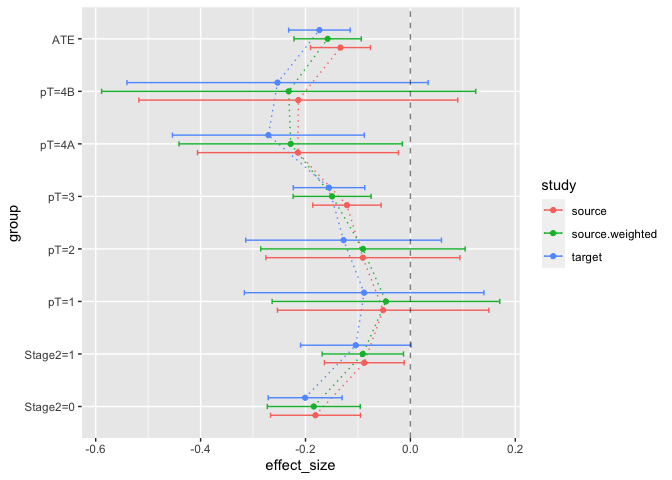
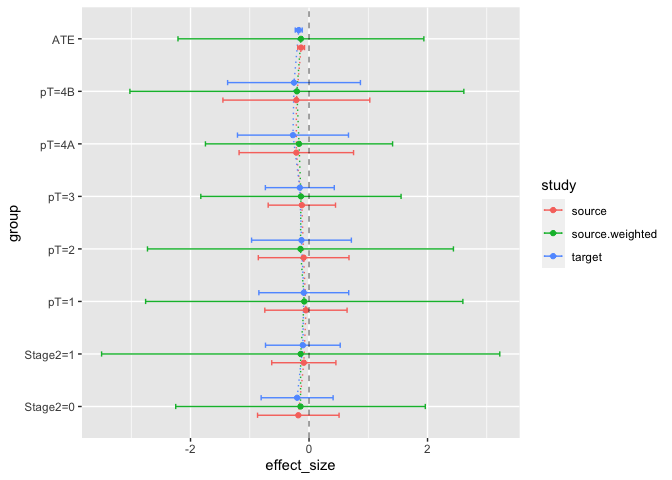
update

diff --git a/README.md b/README.md
@@ -19,9 +19,9 @@ variable, and univariate distribution).
 
 The package use R6 Object-oriented programming system. Below is the
 class diagram defined in the package:
-![schematic](man/figures/README-schematic.png) The package new two
-objects of superclass Estimator for source study and target study,
-respectively, then
+![schematic](man/figures/README-UML.png) The package new two objects of
+superclass Estimator for source study and target study, respectively,
+then
 
 1.  each object estimate the treatment effect using G\_computation,
     inverse propensity score weighting, or doubly robust estimator to
@@ -61,11 +61,6 @@ This is a basic example which shows you how to solve a common problem:
 
 ``` r
 library(RCTrep)
-#> 
-#> Attaching package: 'RCTrep'
-#> The following object is masked from 'package:base':
-#> 
-#>     summary
 
 source.data <- RCTrep::source.data
 target.data <- RCTrep::target.data
@@ -78,6 +73,31 @@ output <- RCTREP(source.data=source.data, target.data=target.data,
                  stratification=c("Stage2","pT"))
 #> Loading required package: lattice
 #> Loading required package: ggplot2
+#> Warning in target$prop/source$prop: longer object length is not a multiple
+#> of shorter object length
+
+#> Warning in target$prop/source$prop: longer object length is not a multiple
+#> of shorter object length
+#> Warning in self$data$y1.hat[index] * weight.norm: longer object length is
+#> not a multiple of shorter object length
+#> Warning in self$data$y0.hat[index] * weight.norm: longer object length is
+#> not a multiple of shorter object length
+#> Warning in self$data$se[index] * (weight)^2: longer object length is not a
+#> multiple of shorter object length
+#> Warning in target$prop/source$prop: longer object length is not a multiple
+#> of shorter object length
+
+#> Warning in target$prop/source$prop: longer object length is not a multiple
+#> of shorter object length
+
+#> Warning in target$prop/source$prop: longer object length is not a multiple
+#> of shorter object length
+
+#> Warning in target$prop/source$prop: longer object length is not a multiple
+#> of shorter object length
+
+#> Warning in target$prop/source$prop: longer object length is not a multiple
+#> of shorter object length
 
 summary(source.obj = output$source.obj, target.obj = output$target.obj)
 #> $summary.plot
@@ -87,34 +107,34 @@ summary(source.obj = output$source.obj, target.obj = output$target.obj)
 
     #> 
     #> $est.target
-    #>     name value        cate         se size
-    #> 1 Stage2     0 -0.20070536 0.03557522 1437
-    #> 2 Stage2     1 -0.10410265 0.05320800  563
-    #> 3     pT     1 -0.08823459 0.11535251   69
-    #> 4     pT     2 -0.12739808 0.09425324  145
-    #> 5     pT     3 -0.15523137 0.03440894 1377
-    #> 6     pT    4A -0.27080612 0.09239320  292
-    #> 7     pT    4B -0.25327783 0.14500448  117
+    #>     name value     y1.hat    y0.hat        cate        se size
+    #> 1 Stage2     0 0.15020963 0.3509150 -0.20070536 0.3067094   60
+    #> 2 Stage2     1 0.05424071 0.1583434 -0.10410265 0.3184142   24
+    #> 3     pT     1 0.04251326 0.1307478 -0.08823459 0.3828676   27
+    #> 4     pT     2 0.06659381 0.1939919 -0.12739808 0.4252886   22
+    #> 5     pT     3 0.09140466 0.2466360 -0.15523137 0.2937424   19
+    #> 6     pT    4A 0.27914831 0.5499544 -0.27080612 0.4731162   NA
+    #> 7     pT    4B 0.22584380 0.4791216 -0.25327783 0.5660573   NA
     #> 
     #> $est.source
-    #>     name value        cate         se size
-    #> 1 Stage2     0 -0.18091521 0.04330931  975
-    #> 2 Stage2     1 -0.08789583 0.03839094 1025
-    #> 3     pT     1 -0.05199944 0.10180447   60
-    #> 4     pT     2 -0.09059797 0.09341618  111
-    #> 5     pT     3 -0.12102250 0.03295451 1486
-    #> 6     pT    4A -0.21437729 0.09676331  243
-    #> 7     pT    4B -0.21376100 0.15354067  100
+    #>     name value     y1.hat     y0.hat        cate        se size
+    #> 1 Stage2     0 0.17375337 0.35466858 -0.18091521 0.3474523   59
+    #> 2 Stage2     1 0.05492594 0.14282177 -0.08789583 0.2735155   33
+    #> 3     pT     1 0.02933538 0.08133482 -0.05199944 0.3505954   29
+    #> 4     pT     2 0.05543867 0.14603664 -0.09059797 0.3864697   22
+    #> 5     pT     3 0.08854706 0.20956956 -0.12102250 0.2869981   20
+    #> 6     pT    4A 0.24970183 0.46407912 -0.21437729 0.4878535   NA
+    #> 7     pT    4B 0.25536326 0.46912426 -0.21376100 0.6260017   NA
     #> 
     #> $est.source.weighted
-    #>     name value        cate         se size
-    #> 1 Stage2     0 -0.18425890 0.04473386  967
-    #> 2 Stage2     1 -0.09073558 0.03917013 1011
-    #> 3     pT     1 -0.04664049 0.10960975   55
-    #> 4     pT     2 -0.09052329 0.09843684  108
-    #> 5     pT     3 -0.14927182 0.03755001 1481
-    #> 6     pT    4A -0.22823583 0.10750251  240
-    #> 7     pT    4B -0.23207905 0.18014894   94
+    #>     name value     y1.hat    y0.hat        cate        se      size
+    #> 1 Stage2     0 0.13994319 0.2836440 -0.14370084 1.0636575 238.50010
+    #> 2 Stage2     1 0.09727598 0.2380736 -0.14079765 1.6969254 412.56493
+    #> 3     pT     1 0.04794144 0.1286824 -0.08074093 1.3520865  74.61869
+    #> 4     pT     2 0.10816980 0.2528174 -0.14464759 1.3038907  27.33331
+    #> 5     pT     3 0.10561276 0.2421220 -0.13650921 0.8534925 196.88136
+    #> 6     pT    4A 0.21167625 0.3805898 -0.16891359 0.7976260 133.67450
+    #> 7     pT    4B 0.27423793 0.4793015 -0.20506356 1.4231717  51.10926
     #> 
     #> $source.model
     #> Generalized Linear Model 
@@ -129,7 +149,7 @@ summary(source.obj = output$source.obj, target.obj = output$target.obj)
     #> Resampling results:
     #> 
     #>   Accuracy   Kappa    
-    #>   0.8280448  0.1842596
+    #>   0.8258472  0.1781374
     #> 
     #> 
     #> $target.model
@@ -145,7 +165,7 @@ summary(source.obj = output$source.obj, target.obj = output$target.obj)
     #> Resampling results:
     #> 
     #>   Accuracy   Kappa    
-    #>   0.8078741  0.1608107
+    #>   0.8105558  0.1742928
 
 You can also summarize conditional average treatment effect by
 specifying stratification and stratification\_joint:
@@ -159,35 +179,35 @@ output$source.obj$plot_CATE(stratification=c("Stage2","pT","BRAF"),stratificatio
 
     #> 
     #> $est.cate
-    #>    Stage2 pT BRAF        cate         se size
-    #> 1       0  1    0 -0.09426355 1.55248126    2
-    #> 2       0  1    1 -0.13894654 1.02457736    1
-    #> 3       0  1    9 -0.04900637 0.10235824   49
-    #> 4       0  1  999 -0.04889760 0.15127640    8
-    #> 5       0  2    0 -0.08564174 0.45490904    1
-    #> 6       0  2    1 -0.14864487 1.02606640    2
-    #> 7       0  2    9 -0.08910858 0.10071492   96
-    #> 8       0  2  999 -0.09837629 0.28077840   11
-    #> 9       0  3    0 -0.21965307 0.46064603   14
-    #> 10      0  3    1 -0.25436656 0.74831103    6
-    #> 11      0  3    9 -0.18070539 0.06081061  495
-    #> 12      0  3  999 -0.20982262 0.16073388   78
-    #> 13      0 4A    0 -0.25342608 0.64198651    7
-    #> 14      0 4A    1 -0.23309734 0.60776710    5
-    #> 15      0 4A    9 -0.24886517 0.13279201  134
-    #> 16      0 4A  999 -0.25638141 0.39602760   14
-    #> 17      0 4B    0 -0.26176926 0.79884008    4
-    #> 18      0 4B    1 -0.21854050 1.05867251    2
-    #> 19      0 4B    9 -0.24911514 0.25693180   40
-    #> 20      0 4B  999 -0.25178159 0.67080061    6
-    #> 21      1  2    9 -0.03688029 0.28346236    1
-    #> 22      1  3    0 -0.09932628 0.29620601   18
-    #> 23      1  3    1 -0.14201638 0.36202362   15
-    #> 24      1  3    9 -0.07419651 0.04378637  737
-    #> 25      1  3  999 -0.08798220 0.10717472  123
-    #> 26      1 4A    0 -0.15063876 0.67203475    2
-    #> 27      1 4A    9 -0.14032343 0.17543294   67
-    #> 28      1 4A  999 -0.17957095 0.42928394   14
-    #> 29      1 4B    1 -0.22462912 1.09594810    3
-    #> 30      1 4B    9 -0.17133023 0.20951896   41
-    #> 31      1 4B  999 -0.17955493 0.95622150    4
+    #>    Stage2 pT BRAF     y1.hat     y0.hat        cate        se size
+    #> 1       0  1    0 0.05731483 0.15157838 -0.09426355 1.3942652    2
+    #> 2       0  1    1 0.09188071 0.23082725 -0.13894654 1.0122141    1
+    #> 3       0  1    9 0.02726808 0.07627445 -0.04900637 0.3417053    3
+    #> 4       0  1  999 0.02718456 0.07608216 -0.04889760 0.4477164    4
+    #> 5       0  2    0 0.05042006 0.13606180 -0.08564174 0.6744694    1
+    #> 6       0  2    1 0.11017879 0.25882366 -0.14864487 1.1120559    2
+    #> 7       0  2    9 0.05411925 0.14322783 -0.08910858 0.3820634    4
+    #> 8       0  2  999 0.06068908 0.15906538 -0.09837629 0.5414762    3
+    #> 9       0  3    0 0.21055792 0.43021098 -0.21965307 0.9202284    4
+    #> 10      0  3    1 0.30704249 0.56140905 -0.25436656 1.0256866    2
+    #> 11      0  3    9 0.14343430 0.32413969 -0.18070539 0.3232542    4
+    #> 12      0  3  999 0.18790453 0.39772716 -0.20982262 0.4925035    4
+    #> 13      0 4A    0 0.40033870 0.65376477 -0.25342608 1.0546241    4
+    #> 14      0 4A    1 0.53862960 0.77172694 -0.23309734 0.8967168    2
+    #> 15      0 4A    9 0.30853511 0.55740027 -0.24886517 0.4608044    4
+    #> 16      0 4A  999 0.36967555 0.62605696 -0.25638141 0.7615609    3
+    #> 17      0 4B    0 0.35631182 0.61808108 -0.26176926 1.1400334    3
+    #> 18      0 4B    1 0.58480427 0.80334477 -0.21854050 1.2181311    2
+    #> 19      0 4B    9 0.35040356 0.59951871 -0.24911514 0.6524995    4
+    #> 20      0 4B  999 0.40722156 0.65900315 -0.25178159 1.0002435    3
+    #> 21      1  2    9 0.01988731 0.05676760 -0.03688029 0.5324118    1
+    #> 22      1  3    0 0.06168030 0.16100657 -0.09932628 0.6653407    4
+    #> 23      1  3    1 0.09759266 0.23960903 -0.14201638 0.7349027    3
+    #> 24      1  3    9 0.04346998 0.11766649 -0.07419651 0.2627665    4
+    #> 25      1  3  999 0.05303112 0.14101332 -0.08798220 0.4057104    4
+    #> 26      1 4A    0 0.10480429 0.25544305 -0.15063876 0.9455681    2
+    #> 27      1 4A    9 0.09723531 0.23755873 -0.14032343 0.5406073    4
+    #> 28      1 4A  999 0.13846357 0.31803452 -0.17957095 0.7106287    3
+    #> 29      1 4B    1 0.19782425 0.42245337 -0.22462912 1.0468754    1
+    #> 30      1 4B    9 0.12965033 0.30098057 -0.17133023 0.5702821    4
+    #> 31      1 4B  999 0.14321553 0.32277046 -0.17955493 1.1713433    3
